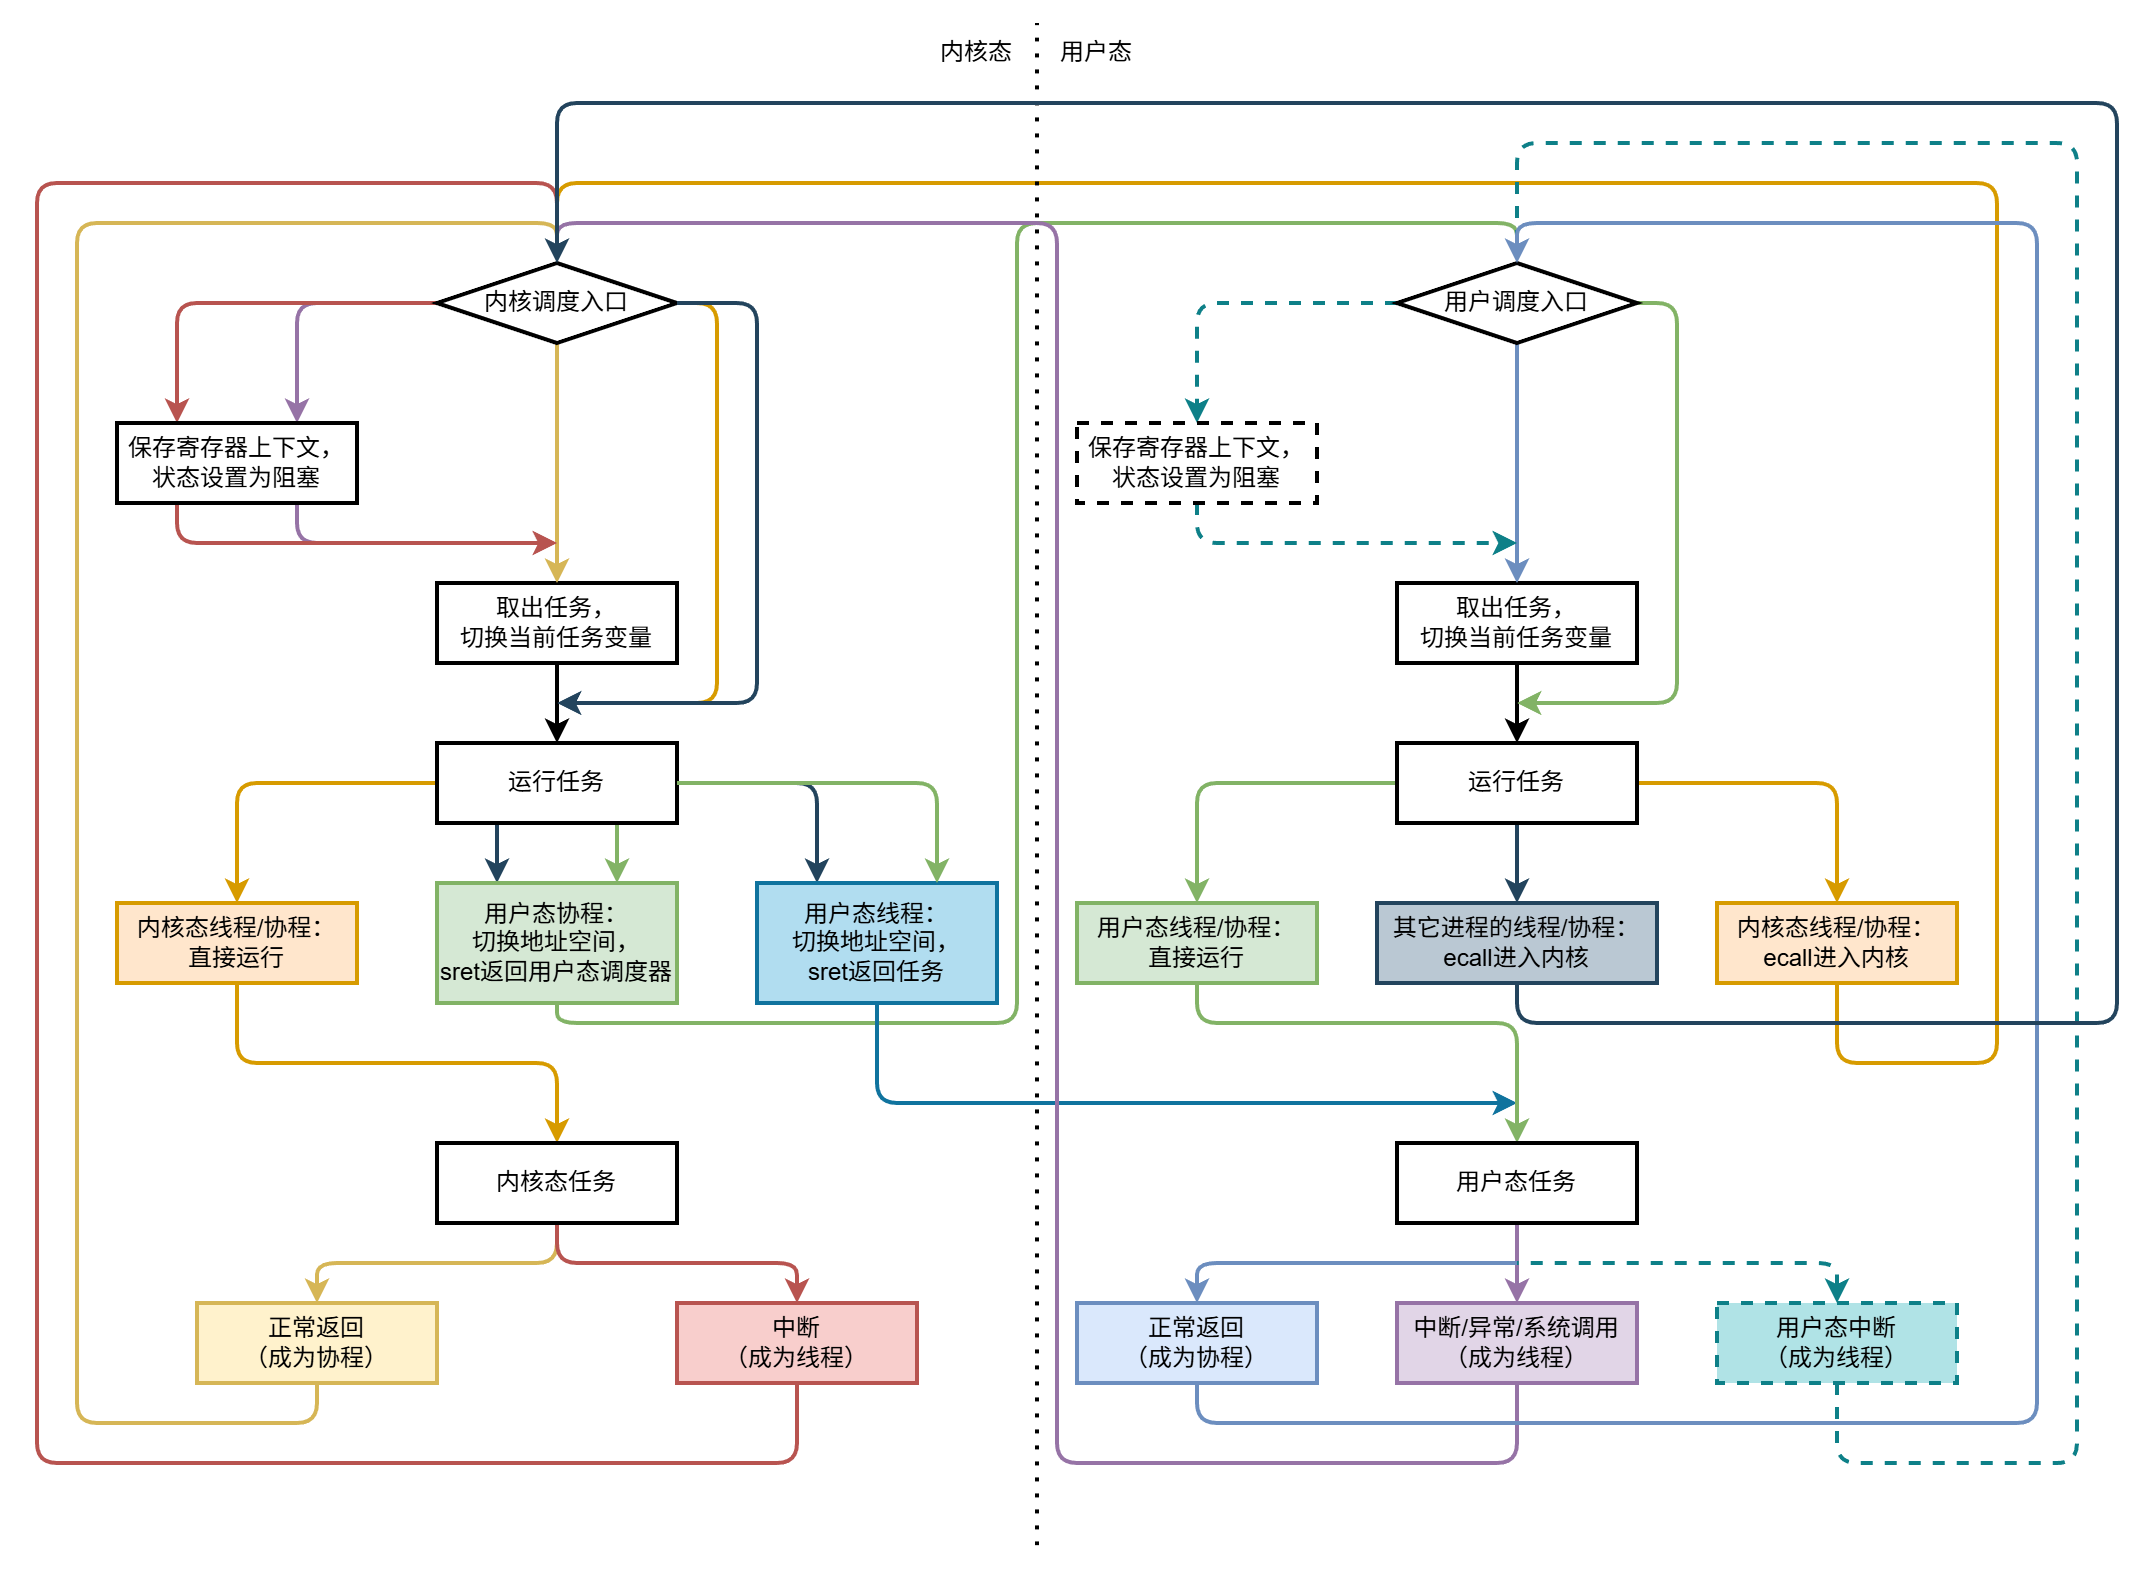
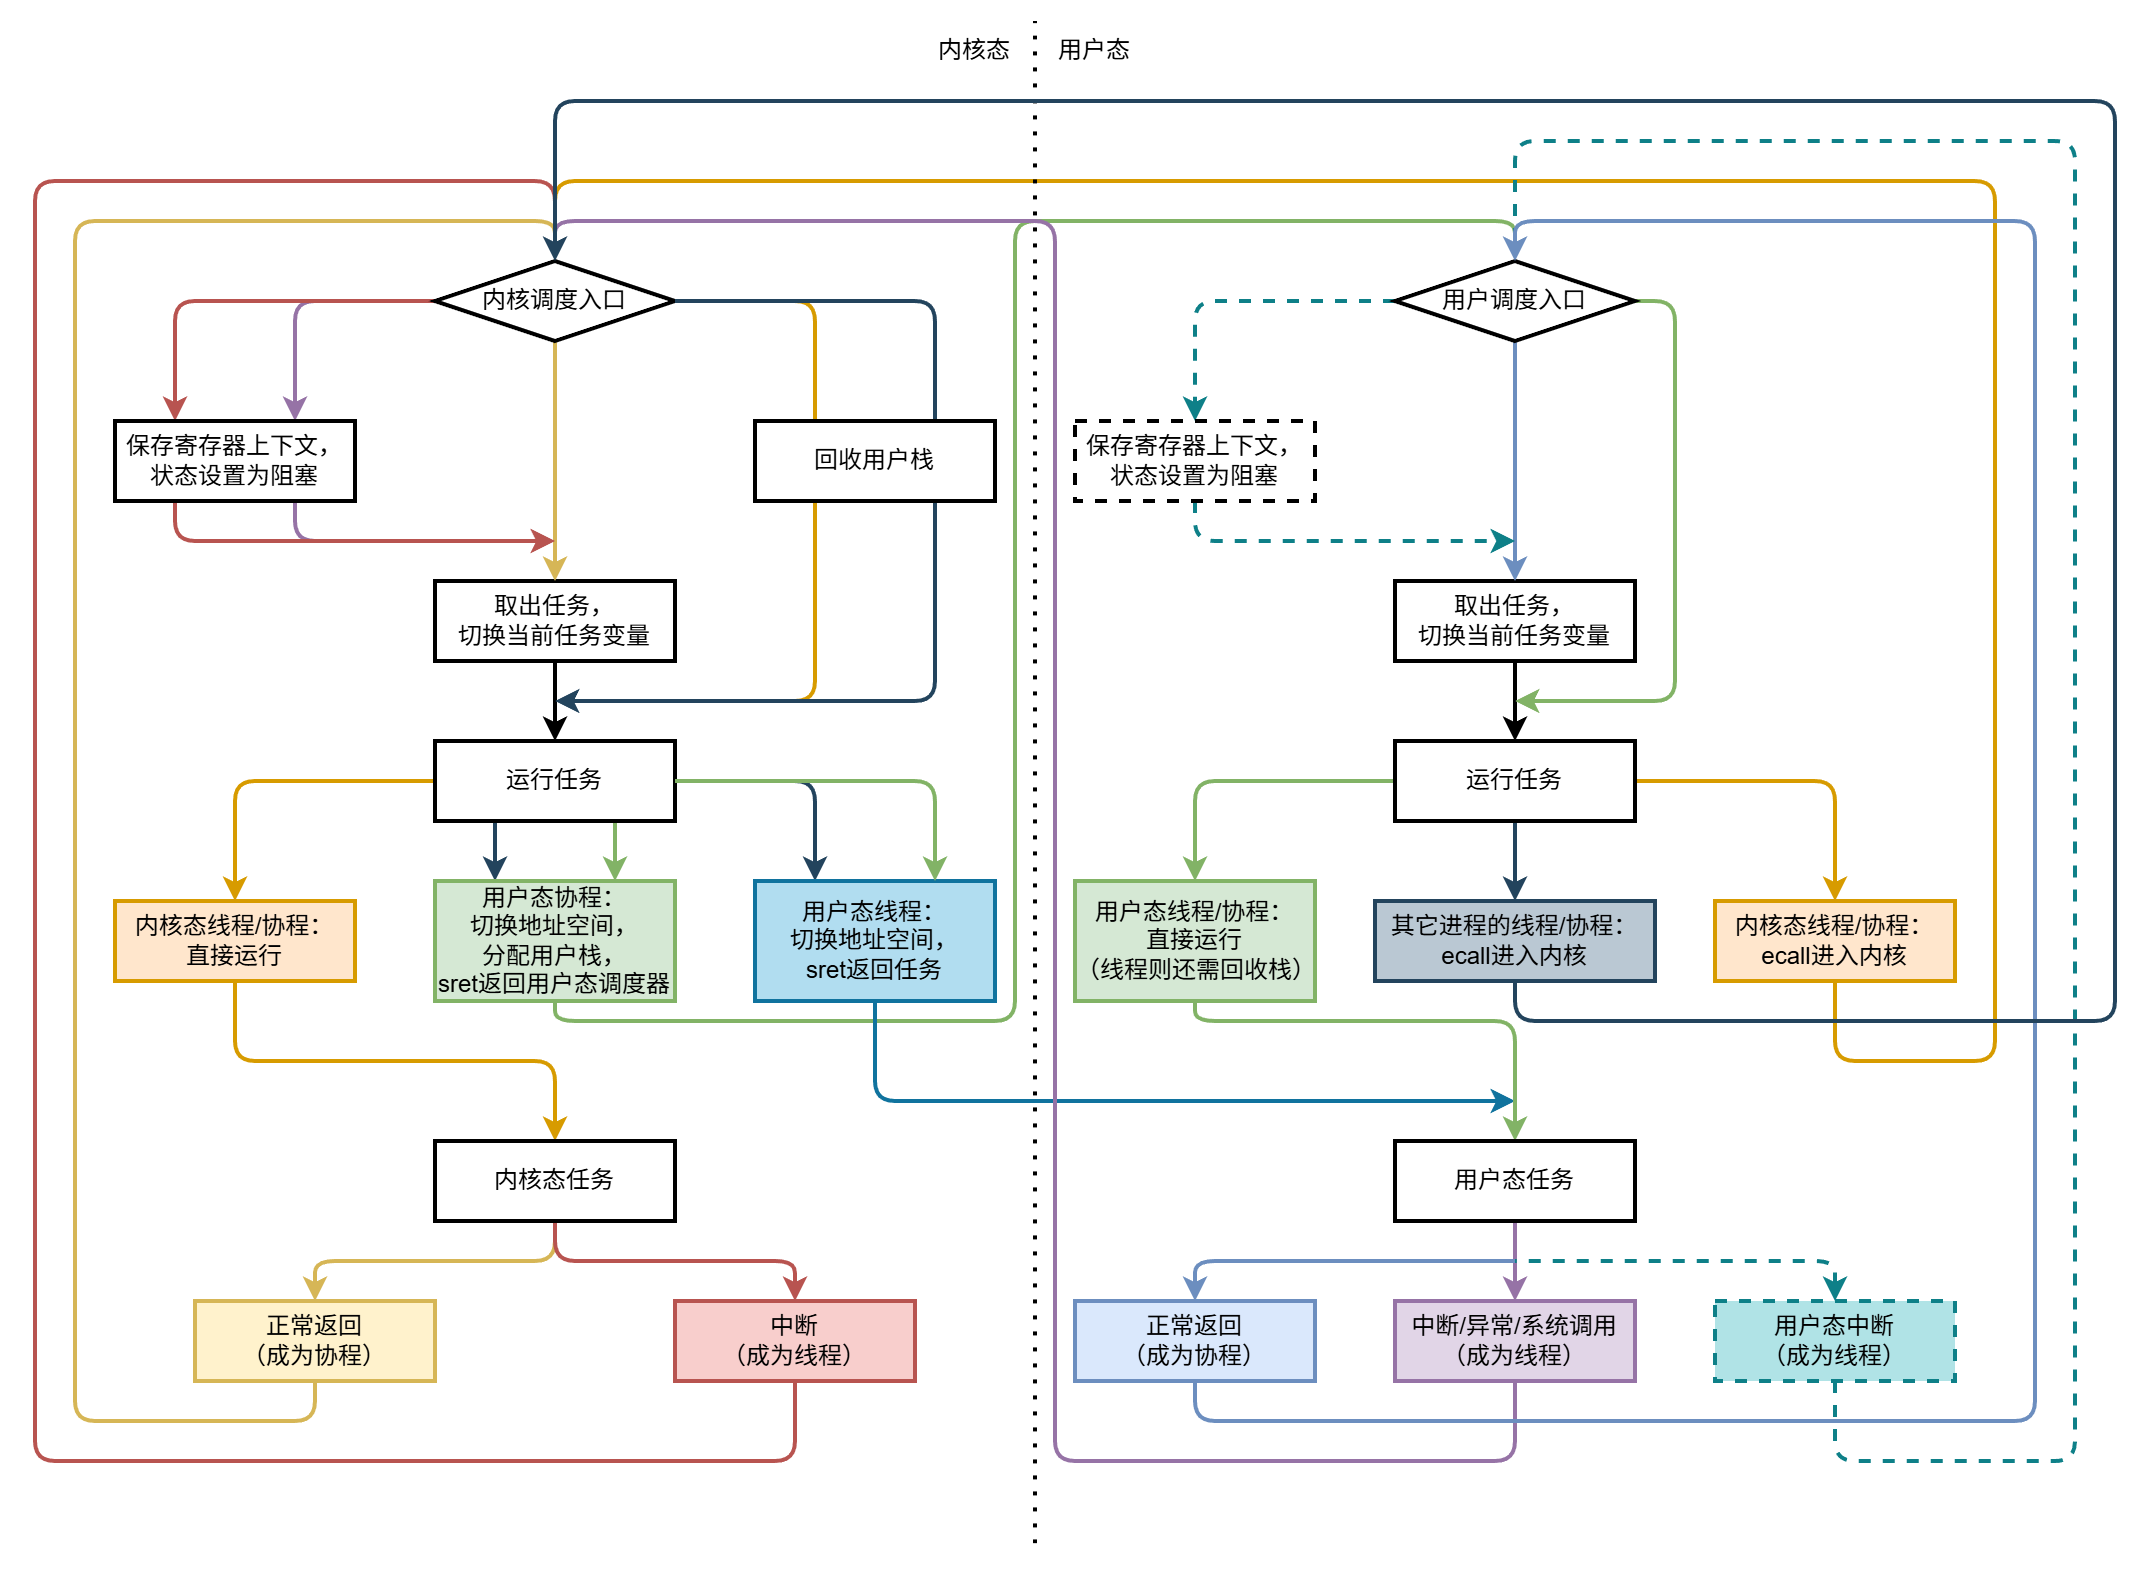
在流程图和接口中增加了栈管理相关内容。

diff --git a/26.3.9~26.3.15/调度器模块设计文档.md b/26.3.9~26.3.15/调度器模块设计文档.md
@@ -60,11 +60,15 @@ vDSO外部的部分：暂无？
   - 进程切换：只会在内核态调用，输入进程id，切换地址空间等进程持有的资源。对应图中“内核调度器运行用户线程/协程”的切换地址空间步骤。
   - 特权级切换：
     - `into_kernel`和`into_user`，切换到内核/用户态并进入内核/用户态的调度入口，对应图中“内核调度器运行用户态协程、用户调度器运行内核态线程/协程、用户调度器运行其它进程的线程/协程”路径。（这部分需要用接口吗？还是可以直接根据体系结构写对应的汇编指令？）
+      - `into_user`函数需要先使用`schedule_entry`函数构造一个用户态上下文，并新分配一个用户栈作为上下文的一部分。这个用户栈需要可以被`recycle_ustack`回收。之后，再`sret`到该用户态上下文。
     - `into_user_context`：切换到用户态的寄存器上下文，对应图中的“内核调度器运行用户态线程”路径。
   - 上下文切换：
     - `poll`：恢复到协程上下文，且根据协程特性，从该函数返回时，就保存好了协程上下文。一定在与上下文相同的特权级中调用。
     - `save_context`：保存寄存器上下文，不一定在与上下文相同的特权级中调用，可能在内核态保存用户态的寄存器上下文。
     - `restore_context`：从寄存器上下文恢复，一定在与当前任务相同的特权级中调用。
+  - 栈管理：
+    - `alloc_ustack`：分配用户栈（在内核态调用）
+    - `recycle_ustack`：回收用户栈（可能在用户态或内核态被调用）
 
 #### 提供接口
 

diff --git a/26.3.2~26.3.8/调度器模块重构思路.md b/26.3.2~26.3.8/调度器模块重构思路.md
@@ -66,7 +66,7 @@ trap前后的执行流视为同一任务的情况：
     - 用户态：回收当前栈，使用线程的栈。线程如果正常返回调度器（成为协程），则会以线程的栈运行调度器。
     - 内核态：在内核态运行内核线程只有一种情况：内核态中断处理完成后返回被打断的内核线程。该情况下，栈不会变更，直接从内核栈上恢复线程的执行流即可。
 
-用户栈的管理：每个进程配备一个栈池，进入调度器上下文时分配栈，在用户态调度器中运行同进程的线程时回收调度器的栈。
+用户栈的管理：每个进程配备一个栈池，从内核态进入调度器上下文时分配栈，在用户态调度器中运行同进程的线程时回收调度器的栈。
 
 内核栈的管理：系统启动时为每个核心分配一个内核栈。
 
